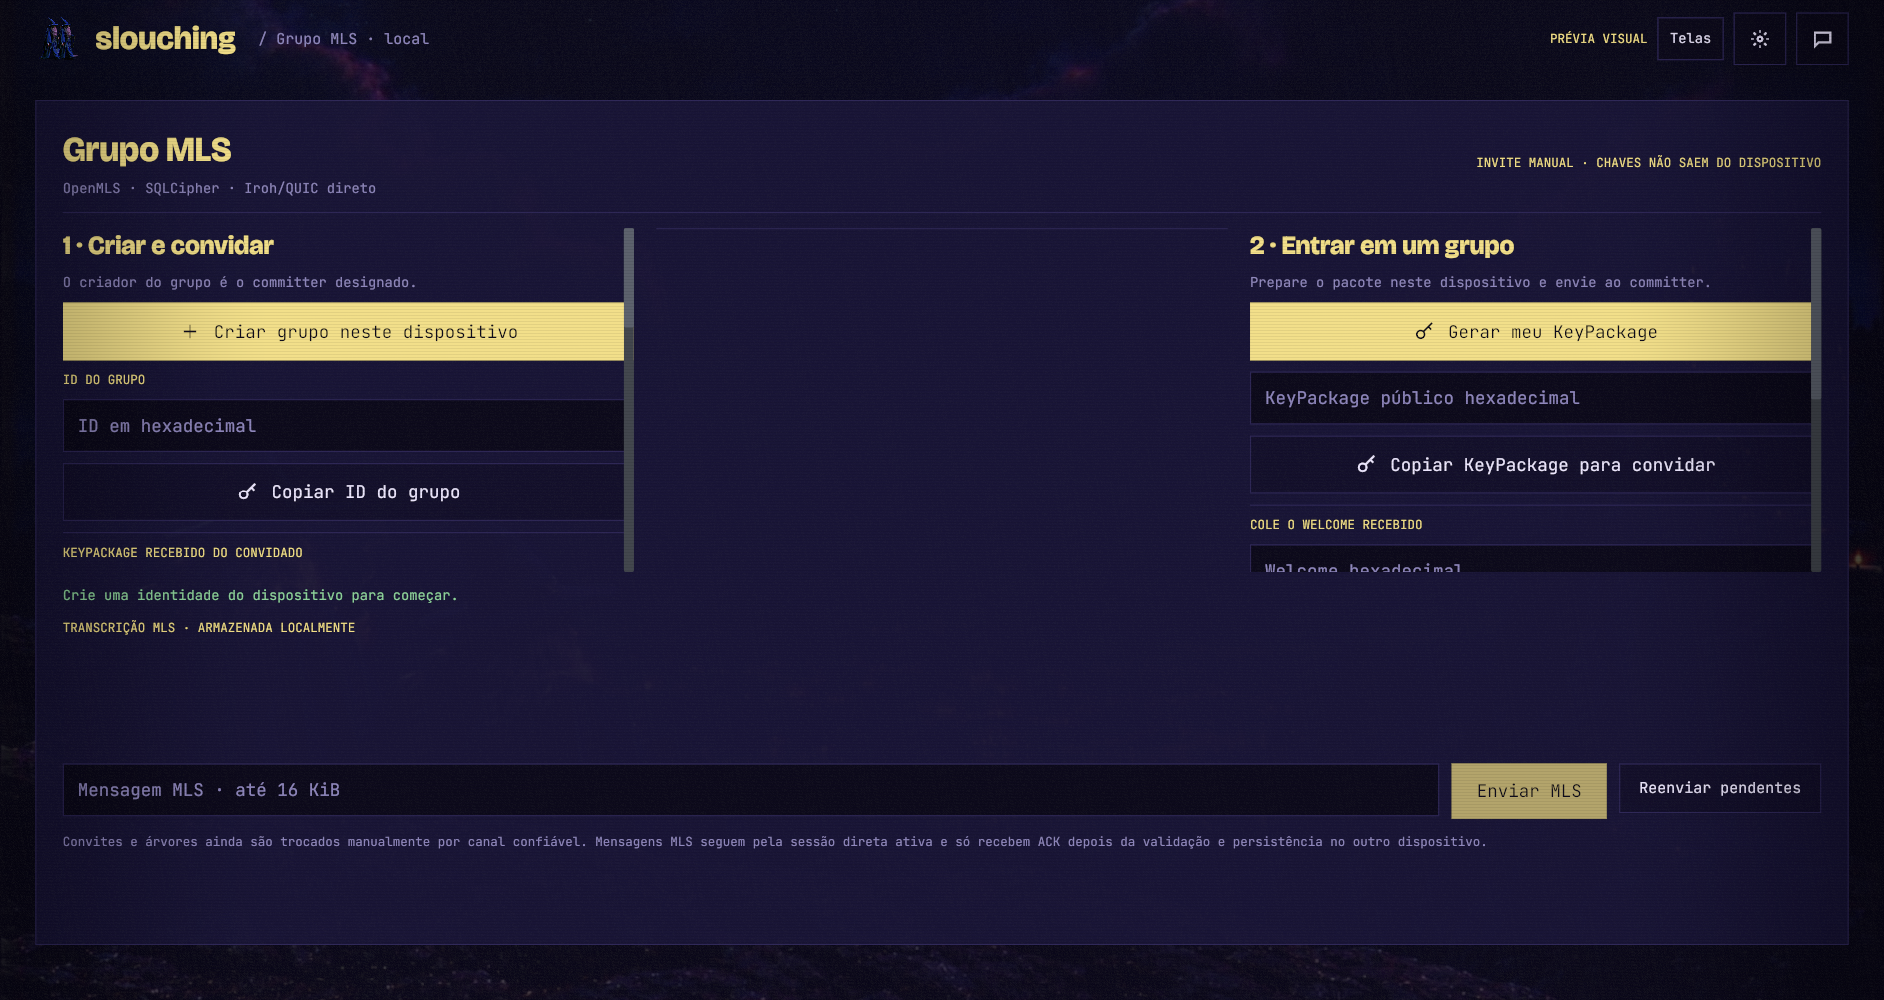
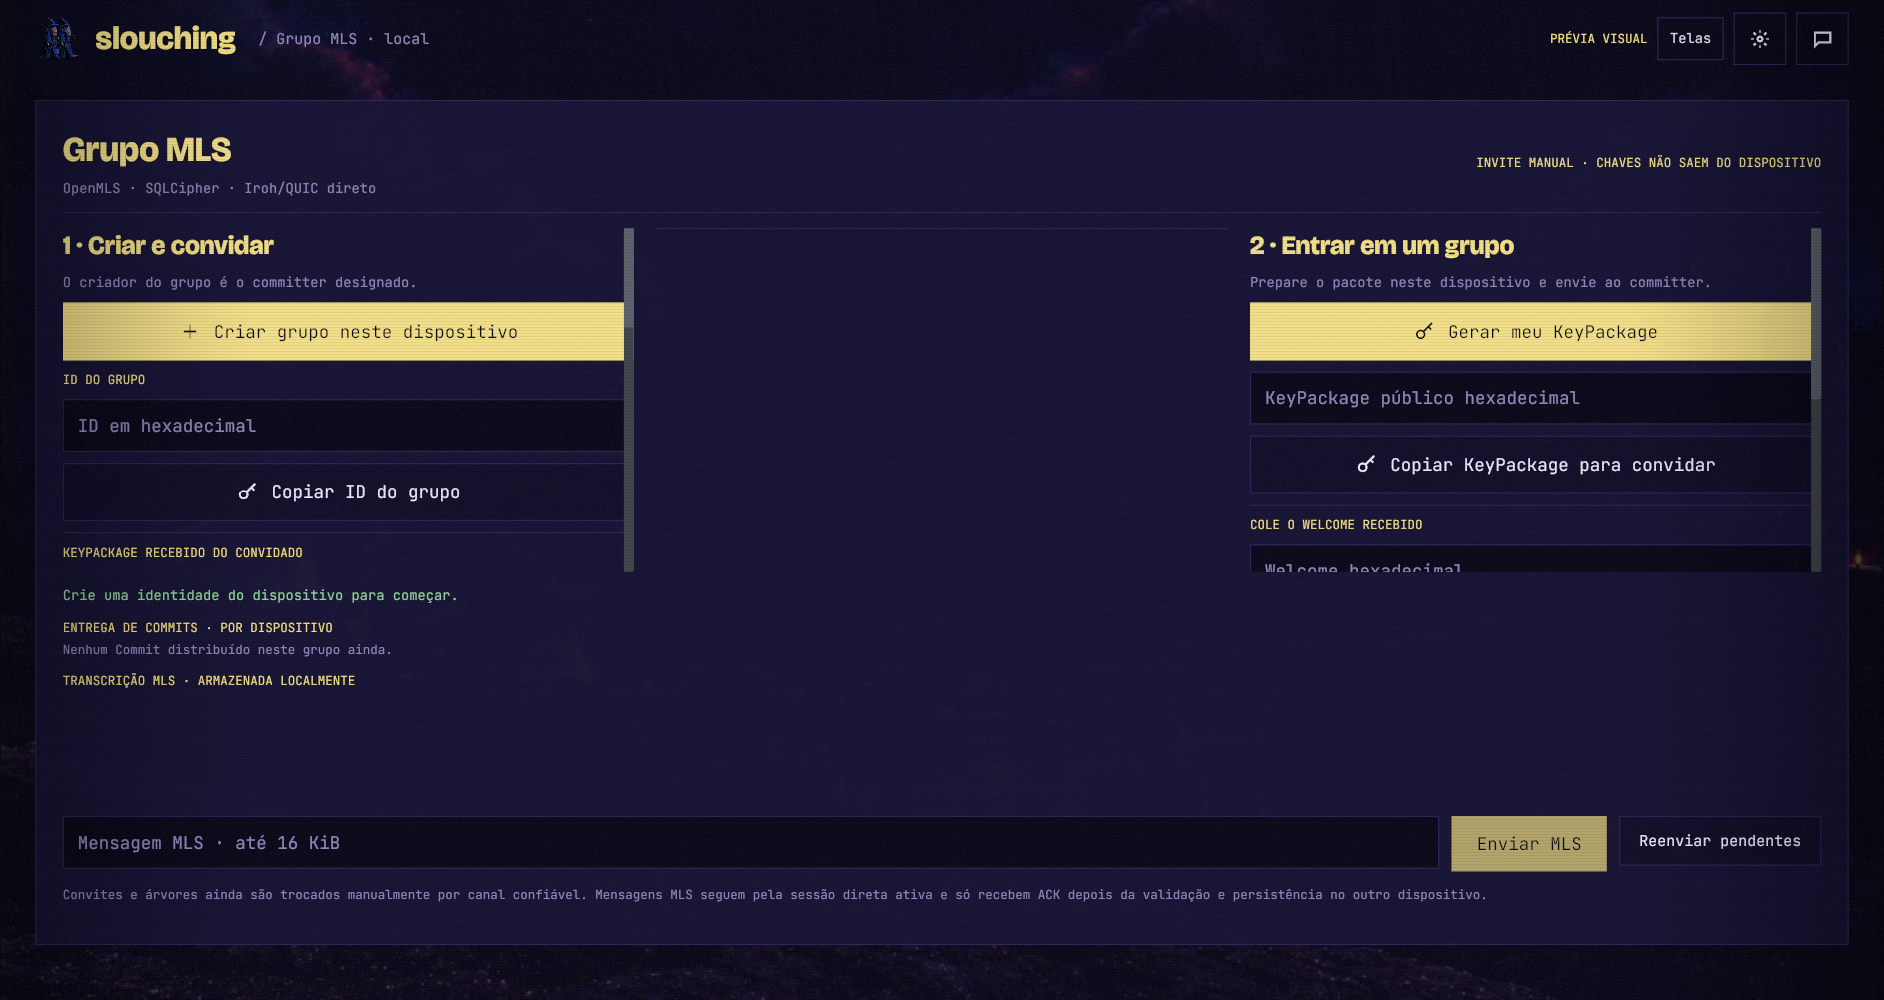
Show per-device MLS commit adoption

Changed region(s): [[0.0308, 0.744, 0.9544, 0.899], [0.0308, 0.62, 0.1847, 0.682]]

diff --git a/src/main.rs b/src/main.rs
@@ -201,6 +201,7 @@ struct Slouching {
     mls_history: Vec<storage::StoredMlsMessage>,
     mls_history_group: Option<Vec<u8>>,
     mls_pending_commits: Vec<storage::StoredMlsCommit>,
+    mls_commit_recipients: Vec<storage::MlsCommitRecipientStatus>,
     mls_pending_events: std::collections::HashMap<u64, [u8; 16]>,
     mls_sending_commits: std::collections::HashMap<u64, [u8; 16]>,
     mls_next_request_id: u64,
@@ -326,6 +327,7 @@ impl Default for Slouching {
             mls_history: Vec::new(),
             mls_history_group: None,
             mls_pending_commits: Vec::new(),
+            mls_commit_recipients: Vec::new(),
             mls_pending_events: std::collections::HashMap::new(),
             mls_sending_commits: std::collections::HashMap::new(),
             mls_next_request_id: 1,
@@ -410,6 +412,10 @@ enum Message {
     MlsMessageDraftChanged(String),
     MlsHistoryLoaded(Vec<u8>, Result<Vec<storage::StoredMlsMessage>, String>),
     MlsCommitsLoaded(Vec<u8>, Result<Vec<storage::StoredMlsCommit>, String>),
+    MlsCommitRecipientsLoaded(
+        Vec<u8>,
+        Result<Vec<storage::MlsCommitRecipientStatus>, String>,
+    ),
     RetryQueuedMlsEvents,
     MlsOutboxLoaded(Vec<u8>, Result<Vec<storage::StoredOutboundEvent>, String>),
     SendMlsApplication,
@@ -1359,6 +1365,17 @@ fn update(state: &mut Slouching, message: Message) -> Task<Message> {
                 }
             }
         }
+        Message::MlsCommitRecipientsLoaded(group_id, result) => {
+            if state.mls_history_group.as_deref() == Some(group_id.as_slice()) {
+                match result {
+                    Ok(recipients) => state.mls_commit_recipients = recipients,
+                    Err(error) => {
+                        state.mls_status =
+                            format!("Não foi possível carregar confirmações de Commit: {error}");
+                    }
+                }
+            }
+        }
         Message::RetryQueuedMlsEvents => {
             if !matches!(state.peer_listen_status, PeerListenStatus::Connected) {
                 state.mls_status =
@@ -1879,13 +1896,20 @@ fn hex_encode_bytes(bytes: &[u8]) -> String {
 fn load_mls_history(state: &mut Slouching, group_id: Vec<u8>) -> Task<Message> {
     state.mls_history_group = Some(group_id.clone());
     let history_group_id = group_id.clone();
+    let commits_group_id = group_id.clone();
+    let recipients_group_id = group_id.clone();
+    let recipients_message_group_id = recipients_group_id.clone();
     Task::batch([
         Task::perform(load_mls_history_task(group_id.clone()), move |result| {
             Message::MlsHistoryLoaded(history_group_id, result)
         }),
-        Task::perform(load_mls_commits_task(group_id.clone()), move |result| {
+        Task::perform(load_mls_commits_task(commits_group_id), move |result| {
             Message::MlsCommitsLoaded(group_id, result)
         }),
+        Task::perform(
+            load_mls_commit_recipient_status_task(recipients_group_id),
+            move |result| Message::MlsCommitRecipientsLoaded(recipients_message_group_id, result),
+        ),
     ])
 }
 
@@ -1901,6 +1925,14 @@ async fn load_mls_commits_task(group_id: Vec<u8>) -> Result<Vec<storage::StoredM
     tokio::task::spawn_blocking(move || storage::list_queued_mls_commits(&group_id, 100))
         .await
         .map_err(|error| format!("MLS Commit outbox task failed: {error}"))?
+}
+
+async fn load_mls_commit_recipient_status_task(
+    group_id: Vec<u8>,
+) -> Result<Vec<storage::MlsCommitRecipientStatus>, String> {
+    tokio::task::spawn_blocking(move || storage::list_mls_commit_recipient_status(&group_id, 200))
+        .await
+        .map_err(|error| format!("MLS Commit recipient status task failed: {error}"))?
 }
 
 async fn load_mls_commits_for_peer_task(

diff --git a/src/storage.rs b/src/storage.rs
@@ -390,6 +390,65 @@ pub struct StoredMlsCommit {
     pub commit: Vec<u8>,
 }
 
+#[derive(Debug, Clone, PartialEq, Eq)]
+pub struct MlsCommitRecipientStatus {
+    pub event_id: [u8; 16],
+    pub epoch: u64,
+    pub device_public_key: [u8; 32],
+    pub delivered: bool,
+}
+
+pub fn list_mls_commit_recipient_status(
+    group_id: &[u8],
+    limit: usize,
+) -> Result<Vec<MlsCommitRecipientStatus>, String> {
+    let connection = open_local_database()?;
+    list_mls_commit_recipient_status_in(&connection, group_id, limit)
+}
+
+fn list_mls_commit_recipient_status_in(
+    connection: &Connection,
+    group_id: &[u8],
+    limit: usize,
+) -> Result<Vec<MlsCommitRecipientStatus>, String> {
+    if group_id.len() != 16 || !(1..=500).contains(&limit) {
+        return Err(
+            "MLS recipient status query requires a 16-byte group ID and limit 1..500".to_owned(),
+        );
+    }
+    let mut statement = connection
+        .prepare(
+            "SELECT c.event_id, c.epoch, r.device_public_key, r.delivery_state
+             FROM local_mls_commits c
+             JOIN local_mls_commit_recipients r ON r.commit_event_id = c.event_id
+             WHERE c.group_id = ?1
+             ORDER BY c.epoch DESC, r.device_public_key LIMIT ?2",
+        )
+        .map_err(|error| format!("could not prepare MLS recipient status query: {error}"))?;
+    let rows = statement
+        .query_map(params![group_id, limit as i64], |row| {
+            Ok((
+                row.get::<_, Vec<u8>>(0)?,
+                row.get::<_, i64>(1)?,
+                row.get::<_, Vec<u8>>(2)?,
+                row.get::<_, String>(3)?,
+            ))
+        })
+        .map_err(|error| format!("could not query MLS recipient status: {error}"))?;
+    rows.map(|row| {
+        let (event_id, epoch, device_public_key, delivery_state) =
+            row.map_err(|error| format!("could not read MLS recipient status: {error}"))?;
+        Ok(MlsCommitRecipientStatus {
+            event_id: fixed_bytes(event_id, "MLS recipient Commit ID")?,
+            epoch: u64::try_from(epoch)
+                .map_err(|_| "MLS recipient status has an invalid epoch".to_owned())?,
+            device_public_key: fixed_bytes(device_public_key, "MLS recipient device key")?,
+            delivered: delivery_state == "delivered",
+        })
+    })
+    .collect()
+}
+
 pub fn list_queued_mls_commits(
     group_id: &[u8],
     limit: usize,
@@ -3199,6 +3258,16 @@ mod tests {
         drop(creator);
         let mut creator = open_database(&creator_path, &creator_key)
             .expect("recipient ACK ledger should survive an encrypted database reopen");
+        let recipient_status = list_mls_commit_recipient_status_in(&creator, &group.group_id, 20)
+            .expect("per-device Commit delivery state should reload");
+        assert_eq!(recipient_status.len(), 1);
+        assert_eq!(
+            recipient_status[0].event_id,
+            second_admission.commit_event_id
+        );
+        assert_eq!(recipient_status[0].epoch, 2);
+        assert_eq!(recipient_status[0].device_public_key, invitee_device);
+        assert!(recipient_status[0].delivered);
         assert!(list_queued_mls_commits_for_peer_in(
             &mut creator,
             &group.group_id,

diff --git a/src/ui.rs b/src/ui.rs
@@ -1196,6 +1196,42 @@ fn sharing(state: &Slouching, l: Layout) -> Element<'_, Message> {
     l.place(l.panel(body), 126.0, 94.0, 1028.0, 646.0)
 }
 fn mls(state: &Slouching, l: Layout) -> Element<'_, Message> {
+    let recipient_rows = state
+        .mls_commit_recipients
+        .iter()
+        .take(3)
+        .map(|recipient| -> Element<'_, Message> {
+            let device = crate::hex_encode_bytes(&recipient.device_public_key);
+            l.label(
+                format!(
+                    "epoch {} · {}… · {}",
+                    recipient.epoch,
+                    &device[..12],
+                    if recipient.delivered {
+                        "ACK persistido"
+                    } else {
+                        "aguardando ACK"
+                    }
+                ),
+                10.0,
+                if recipient.delivered { GREEN } else { MUTED },
+            )
+            .into()
+        })
+        .collect::<Vec<_>>();
+    let recipient_rows = if recipient_rows.is_empty() {
+        vec![
+            l.label("Nenhum Commit distribuído neste grupo ainda.", 10.0, MUTED)
+                .into(),
+        ]
+    } else {
+        recipient_rows
+    };
+    let recipient_status = column![
+        l.label("ENTREGA DE COMMITS · POR DISPOSITIVO", 10.0, GOLD),
+        column(recipient_rows).spacing(l.px(3.0))
+    ]
+    .spacing(l.px(4.0));
     let inviter = column![
         l.title("1 · Criar e convidar", 21.0),
         l.label("O criador do grupo é o committer designado.", 11.0, MUTED),
@@ -1415,6 +1451,7 @@ fn mls(state: &Slouching, l: Layout) -> Element<'_, Message> {
             scrollable(invitee).height(l.px(275.0)).width(Fill)
         ].spacing(l.px(18.0)),
         l.label(state.mls_status.clone(), 11.0, GREEN),
+        recipient_status,
         l.label("TRANSCRIÇÃO MLS · ARMAZENADA LOCALMENTE", 10.0, GOLD),
         container(history).height(l.px(78.0)).width(Fill),
         row![

diff --git a/docs/fichas/frontend/current-slice.md b/docs/fichas/frontend/current-slice.md
@@ -8,7 +8,7 @@ messages are encrypted with OpenMLS and sent over the active direct session.
 The receiver validates the sender binding and event metadata, advances the
 ratchet, stores ciphertext and the local transcript in SQLCipher, then ACKs.
 The sender marks the outbox event held by the peer after receiving that ACK.
-Queued application events can be retried from the MLS screen after reconnecting. Membership Commit bytes and the predecessor-epoch member roster are saved atomically with the merged group state. The MLS screen sends the next pending Commit over the active pinned QUIC session only to a snapshotted recipient who remains an authenticated group member. Newly invited members are excluded from that older Commit. The receiver validates envelope metadata, MLS signature, group, predecessor epoch, designated committer, and device-bound credentials before atomically persisting the Commit and journal record; transport ACK follows persistence and is durably recorded per recipient on the sender. Exact redelivery is idempotent. Delivery targets one connected member at a time; automatic multi-member fan-out, offline delivery, and concurrent proposal handling remain open.
+Queued application events can be retried from the MLS screen after reconnecting. Membership Commit bytes and the predecessor-epoch member roster are saved atomically with the merged group state. The MLS screen sends the next pending Commit over the active pinned QUIC session only to a snapshotted recipient who remains an authenticated group member. Newly invited members are excluded from that older Commit. The receiver validates envelope metadata, MLS signature, group, predecessor epoch, designated committer, and device-bound credentials before atomically persisting the Commit and journal record; transport ACK follows persistence and is durably recorded per recipient on the sender. The UI shows each eligible device's saved adoption ACK. Exact redelivery is idempotent. Delivery targets one connected member at a time; automatic multi-member fan-out, offline delivery, and concurrent proposal handling remain open.
 
 `src/main.rs` owns application and transport state; `src/ui.rs` composes the
 native Iced views, original art, icons, embedded fonts, and texture effects.

diff --git a/README.md b/README.md
@@ -100,8 +100,9 @@ member recorded at the Commit's predecessor epoch; a newly invited device is
 not sent that older Commit. The recipient validates it and persists the new
 epoch before ACK, and the sender stores that ACK per recipient. Exact redelivery
 is harmless. This sends to one connected member at a time; automatic
-multi-member fan-out and offline delivery are still in progress.
-New members join with the matching Welcome and ratchet tree. The transcript reloads locally, and **Reenviar pendentes**
+multi-member fan-out and offline delivery are still in progress. The MLS screen
+shows each eligible device's persisted adoption ACK. New members join with the
+matching Welcome and ratchet tree. The transcript reloads locally, and **Reenviar pendentes**
 sends queued events for the selected group after reconnecting.
 
 Familiar selection, invitation/draft fields, screen navigation, settings

diff --git a/docs/fichas/transport/lan-peer-v3.md b/docs/fichas/transport/lan-peer-v3.md
@@ -66,8 +66,9 @@ active pinned session to one device in the predecessor-epoch member snapshot.
 The sender also checks that the pinned peer remains a device-bound MLS member,
 so a newly invited member never receives the older Commit. The receiver
 validates the Commit signature, designated committer, group and next epoch,
-persists the state, then ACKs. The sender persists that ACK per recipient;
-redelivery is idempotent. The new member joins with the matching Welcome and
+persists the state, then ACKs. The sender persists that ACK per recipient and
+the MLS screen shows which devices have adopted the Commit; redelivery is
+idempotent. The new member joins with the matching Welcome and
 ratchet tree. Automatic multi-member fan-out and helper delivery are not
 implemented.
 
